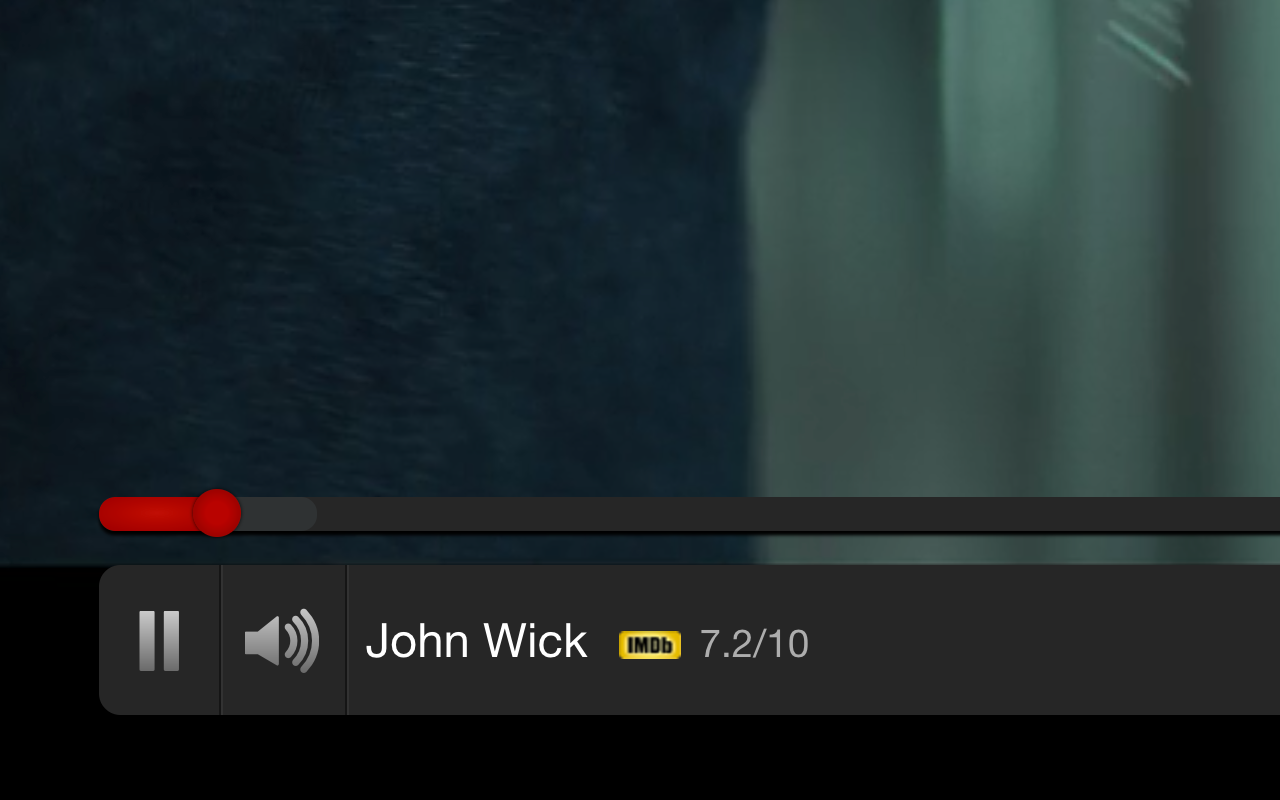
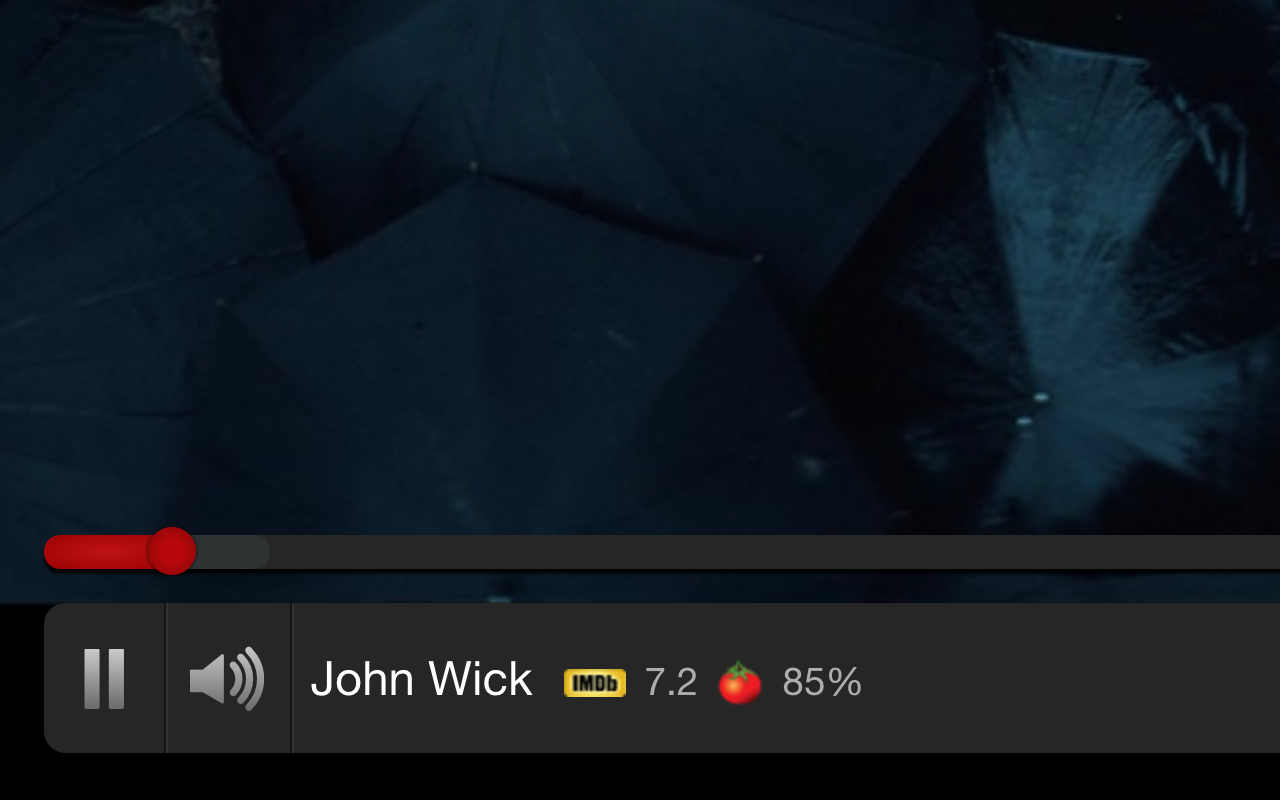
Add RT ratings

diff --git a/javascript/inject.js b/javascript/inject.js
@@ -1,19 +1,25 @@
-function imdbSpan(id) {
+function imdbSpan() {
 	var span = document.createElement("SPAN");
 	span.className = "imdbRating";
 	return span;
 }
 
-function imdbLink(id) {
+function rtSpan() {
+	var span = document.createElement("SPAN");
+	span.className = "rtRating";
+	return span;
+}
+
+function imdbLinkNode(id) {
 	var link = document.createElement("A");
 	link.href = "https://www.imdb.com/title/" + id;
 	link.target = "_blank";
 	return link;
 }
 
-function imdbLogo(id) {
+function imdbLogoNode(id) {
 	var span = imdbSpan(id);
-	var link = imdbLink(id);
+	var link = imdbLinkNode(id);
 	var image = document.createElement("IMG");
 	image.src = chrome.extension.getURL("images/imdb_31x14.png");
 	image.className = "imdbLogo";
@@ -22,23 +28,44 @@ function imdbLogo(id) {
 	return span;
 }
 
-function imdbRating(id, rating) {
-	var span = imdbSpan(id);
-	var link = imdbLink(id);
-	var rating = document.createTextNode(rating + "/10");
+function imdbRatingNode(id, rating) {
+	var span = imdbSpan();
+	var link = imdbLinkNode(id);
+	var rating = document.createTextNode(rating);
 	link.appendChild(rating);
 	span.appendChild(link);
 	return span;
 }
 
+function rtLogoNode() {
+	var span = rtSpan();
+	var image = document.createElement("IMG");
+	image.src = chrome.extension.getURL("images/rt_logo.png");
+	image.className = "rtLogo";
+	span.appendChild(image);
+	return span;
+}
+
+function rtRatingNode(rating) {
+	var span = rtSpan();
+	var rating = document.createTextNode(rating);
+	span.appendChild(rating);
+	return span;
+}
+
 function injectRatings(node, ratings) {
-	rating = ratings["imdb"];
-	id = ratings["imdbID"];
+	var imdbRating = ratings["imdb"];
+	var imdbId = ratings["imdbID"];
+	var rtRating = ratings["rt"];
 
-	if (!rating) { return }
-
-	if (node && !node.querySelector(".imdbRating")) {
-		node.appendChild(imdbLogo(id));
-		node.appendChild(imdbRating(id, rating));
+	if (node) {
+		if (imdbRating && !node.querySelector(".imdbRating")) {
+			node.appendChild(imdbLogoNode(imdbId));
+			node.appendChild(imdbRatingNode(imdbId, imdbRating));
+		}
+		if (rtRating && !node.querySelector(".rtRating")) {
+			node.appendChild(rtLogoNode());
+			node.appendChild(rtRatingNode(rtRating));
+		}
 	}
 }

diff --git a/javascript/omdb.js b/javascript/omdb.js
@@ -8,14 +8,29 @@ function fetchRatings(title, season, episode, callback) {
 		callback(cache[cacheKey])
 	} else {
 		$.getJSON(OMDB_URL, requestOptions(title, season, episode), function(response) {
-			ratings = {
+			var ratings = {
 				imdb: response.imdbRating,
-				imdbID: response.imdbID
+				imdbID: response.imdbID,
+				rt: fetchRTRating(response)
 			}
 			cache[cacheKey] = ratings;
 			callback(ratings);
 		});
 	}
+}
+
+function fetchRTRating(response) {
+	var ratingsArray = response["Ratings"];
+	if (ratingsArray) {
+		var rtRating = ratingsArray.find(rtFilter);
+		if (rtRating) {
+			return rtRating["Value"];
+		}
+	}
+}
+
+function rtFilter(rating) {
+	return rating["Source"] == "Rotten Tomatoes";
 }
 
 function requestOptions(title, season, episode) {

diff --git a/stylesheets/style.css b/stylesheets/style.css
@@ -2,19 +2,22 @@
 	color: #666 !important;
 }
 
-.bob-card .imdbRating {
+.bob-card .imdbRating,
+.bob-card .rtRating {
 	margin-right: .333vw !important;
 	display: inline-block !important;
 	line-height: 2 !important;
 	font-weight: 700 !important;
 }
 
-.imdbLogo {
+.imdbLogo, .rtLogo {
 	vertical-align: middle;
 }
 
 .bob-card .imdbRating .imdbLogo,
-.player-status .imdbRating .imdbLogo {
+.bob-card .rtRating .rtLogo,
+.player-status .imdbRating .imdbLogo,
+.player-status .rtRating .rtLogo {
 	margin-bottom: 2px;
 }
 
